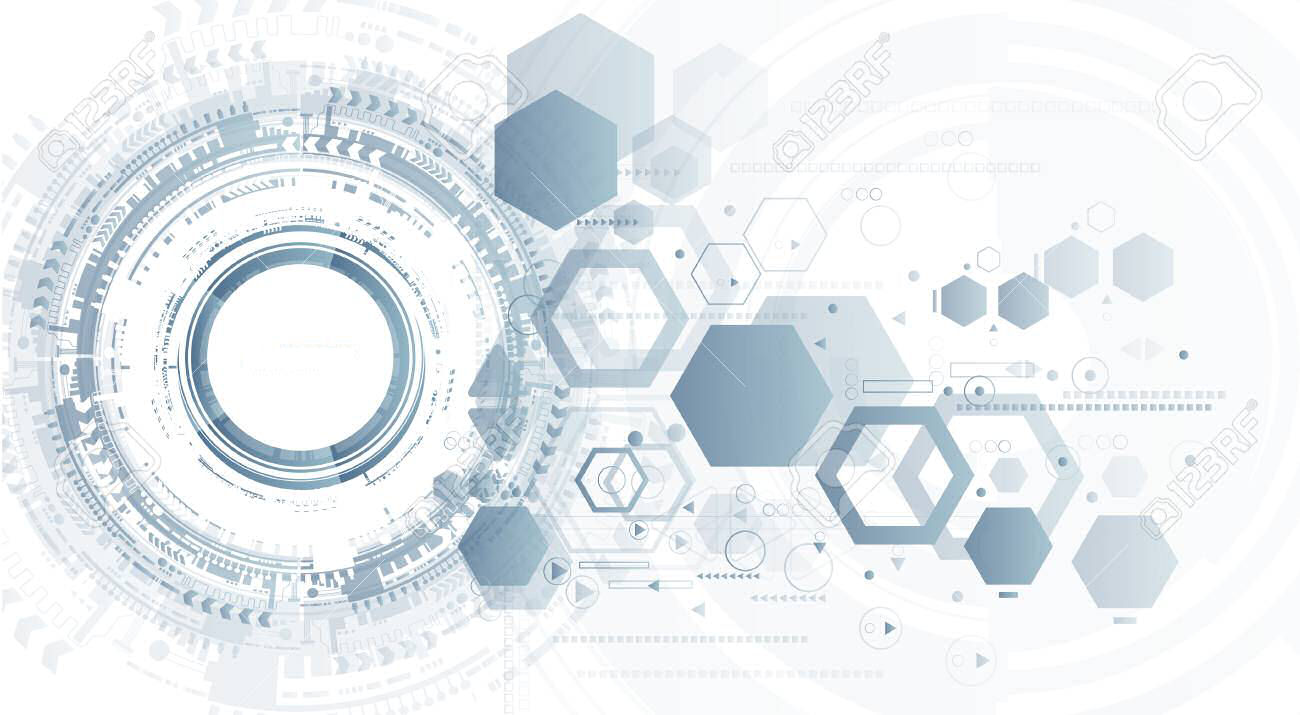
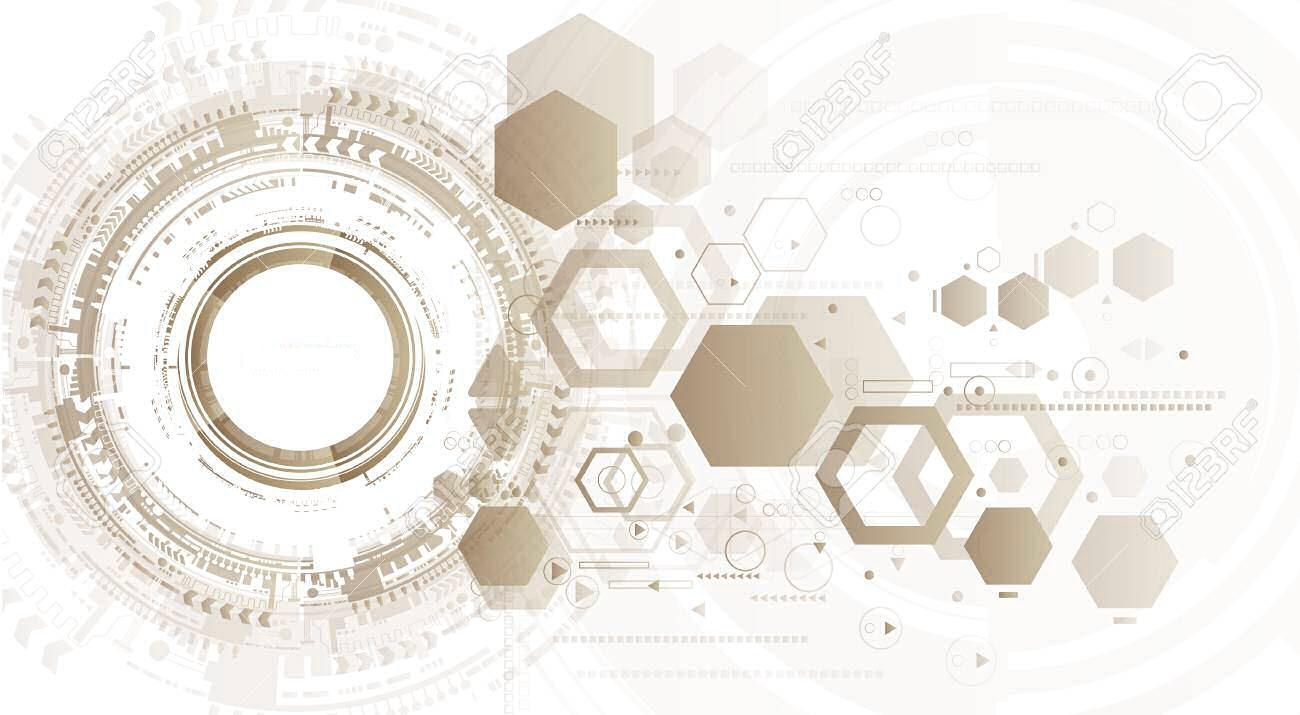
Random updates

diff --git a/miniproject2/template.html b/miniproject2/template.html
@@ -5,7 +5,8 @@
 	<meta charset="UTF-8" />
 	<meta name="viewport" content="width=device-width, initial-scale=1" />
 	<title>BCDS Web Development</title>
-	<link rel="stylesheet" href="css/screen.css" />
+	<link rel="stylesheet" href="css/style.css" />
+	<script src="scripts/scripts.js"></script>
 </head>
 
 <body>
@@ -24,6 +25,7 @@
 	<main>
 		<span class="semantic-tag-label">Main</span>
 		<p class="message"><span>Helping you to boost</span> <span class="boost">marketability online</span> <span>is our mission</span></p>
+		<script>backgroundTransition()</script>
 	</main>
 	<footer>
 		<span class="semantic-tag-label">Footer</span>

diff --git a/miniproject2/css/style.css b/miniproject2/css/style.css
@@ -16,7 +16,7 @@ body>main   {grid-area: main;}
 
 body {
 	margin: 0;
-	background-image: url("../images/background.jpg");
+	background-image: url("../images/background0.jpg");
 	background-size: cover;
 	font-family: Verdana;
 	font-size: 16px;
@@ -106,7 +106,6 @@ main {
 main p.message {
 	text-align: right;
 	font-size: 60px;
-	font-weight: 60px;
 	width: 10.6667em;
 	margin: 0px;
 	padding: 1em;

diff --git a/miniproject2/scripts/scripts.js b/miniproject2/scripts/scripts.js
@@ -1,0 +1,12 @@
+let backgroundTransition = () => {
+	let i = 0;
+	let j = 0;
+	setInterval(() => {
+		j = i; i = (i + 1) % 6;
+		replaceBackground(i, j);
+	}, 3000);
+	let replaceBackground = (i, j) => {
+		document.body.style.backgroundImage = `url(images/background${i}.jpg), url(images/background${j}.jpg)`;
+	}
+}
+
